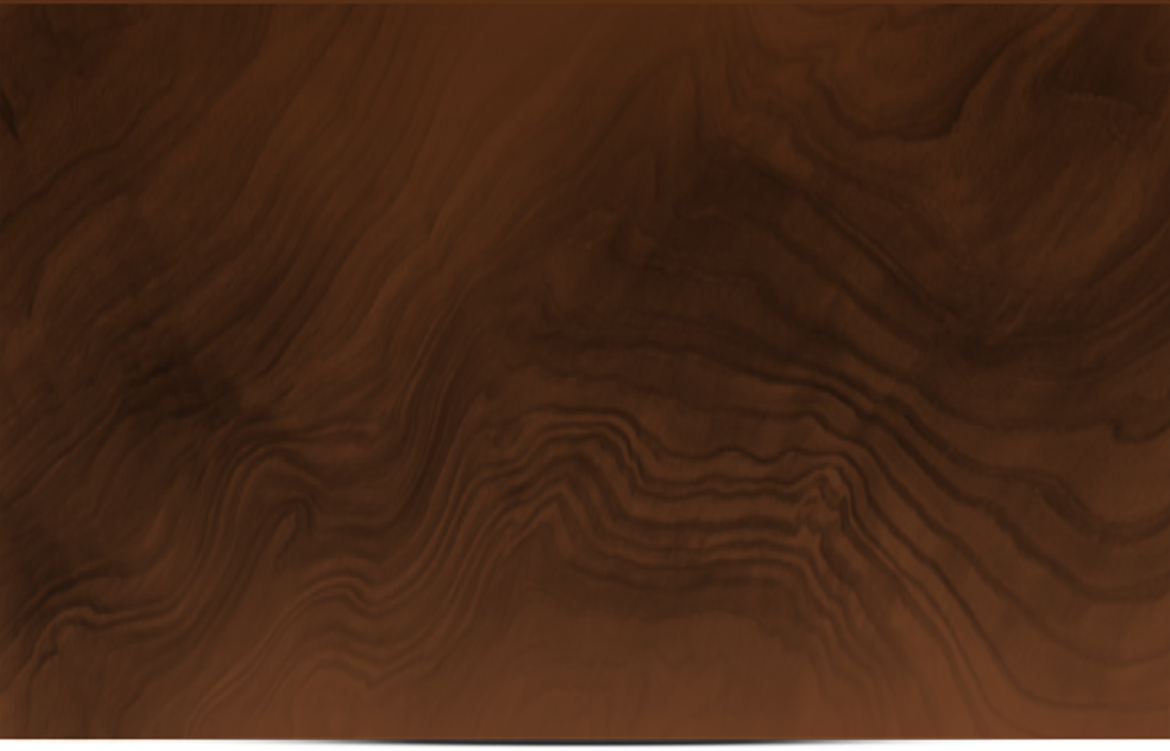
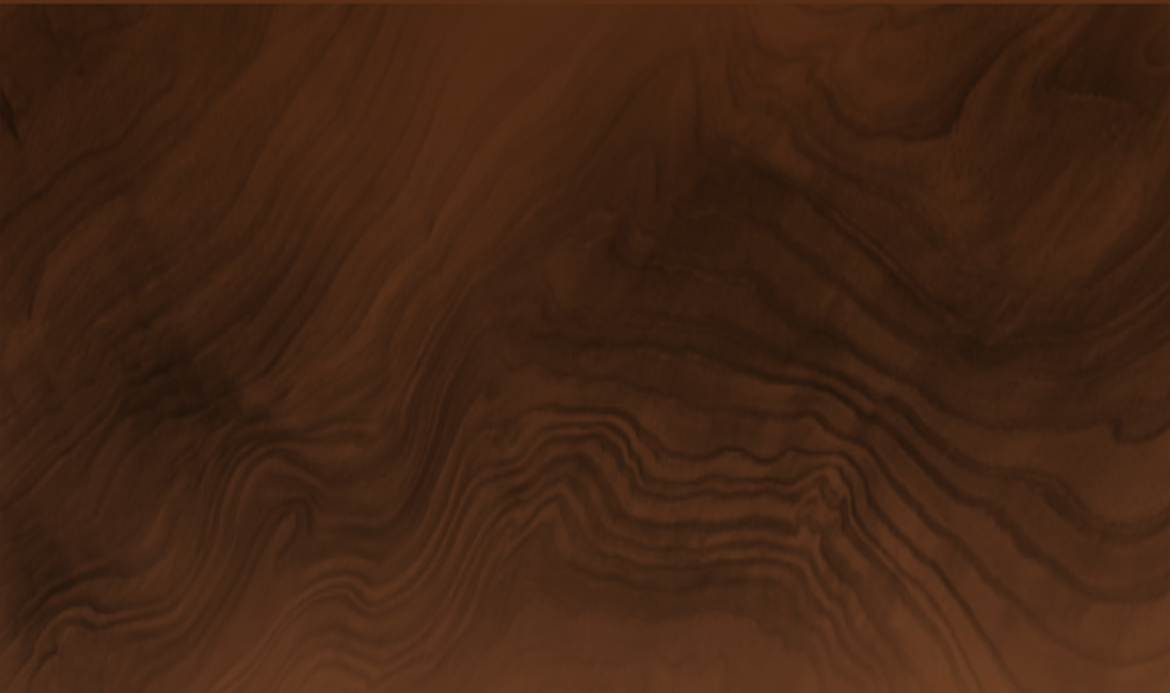
brown fix

diff --git a/app/styles/main.scss b/app/styles/main.scss
@@ -11,29 +11,29 @@ $icon-font-path: '../fonts/';
 @import "partials/sprite";
 @import "partials/header";
 .brown {
-  position: relative;
+  position: absolute;
+  z-index: 0;
   top: 0;
-  height: 143px;
+  height: 550px; //143
   width: 100%;
-  background: url("../images/bg_header.jpg") no-repeat center;
+  //background: url("../images/bg_header.jpg") no-repeat center;
+  background: url("../images/bg_top_2.png") no-repeat center;
   -webkit-background-size: cover;
   background-size: cover;
 }
 .box {
-  height: 550px;
-  background: url("../images/bg_top.png") no-repeat center;
+  height: 407px;
+  background: transparent;
+  /*background: url("../images/bg_top.png") no-repeat center;
   -webkit-background-size: cover;
-  background-size: cover;
+  background-size: cover;*/
 }
 .header-title {
   @include navText(3rem);
   color: $header-text-color;
   line-height: 4.5rem;
-  padding-top: 143px;
 }
 .slider-wrap {
-  //outline: 1px solid whitesmoke;
-  padding-top: 143px;
   height: auto;
   margin-bottom: 2rem;
   text-align: center;

diff --git a/app/styles/partials/_header.scss b/app/styles/partials/_header.scss
@@ -1,5 +1,5 @@
 .header {
-  position: absolute;
+  position: relative;
   width: 100%;
   height: auto;
   padding: 1px;
